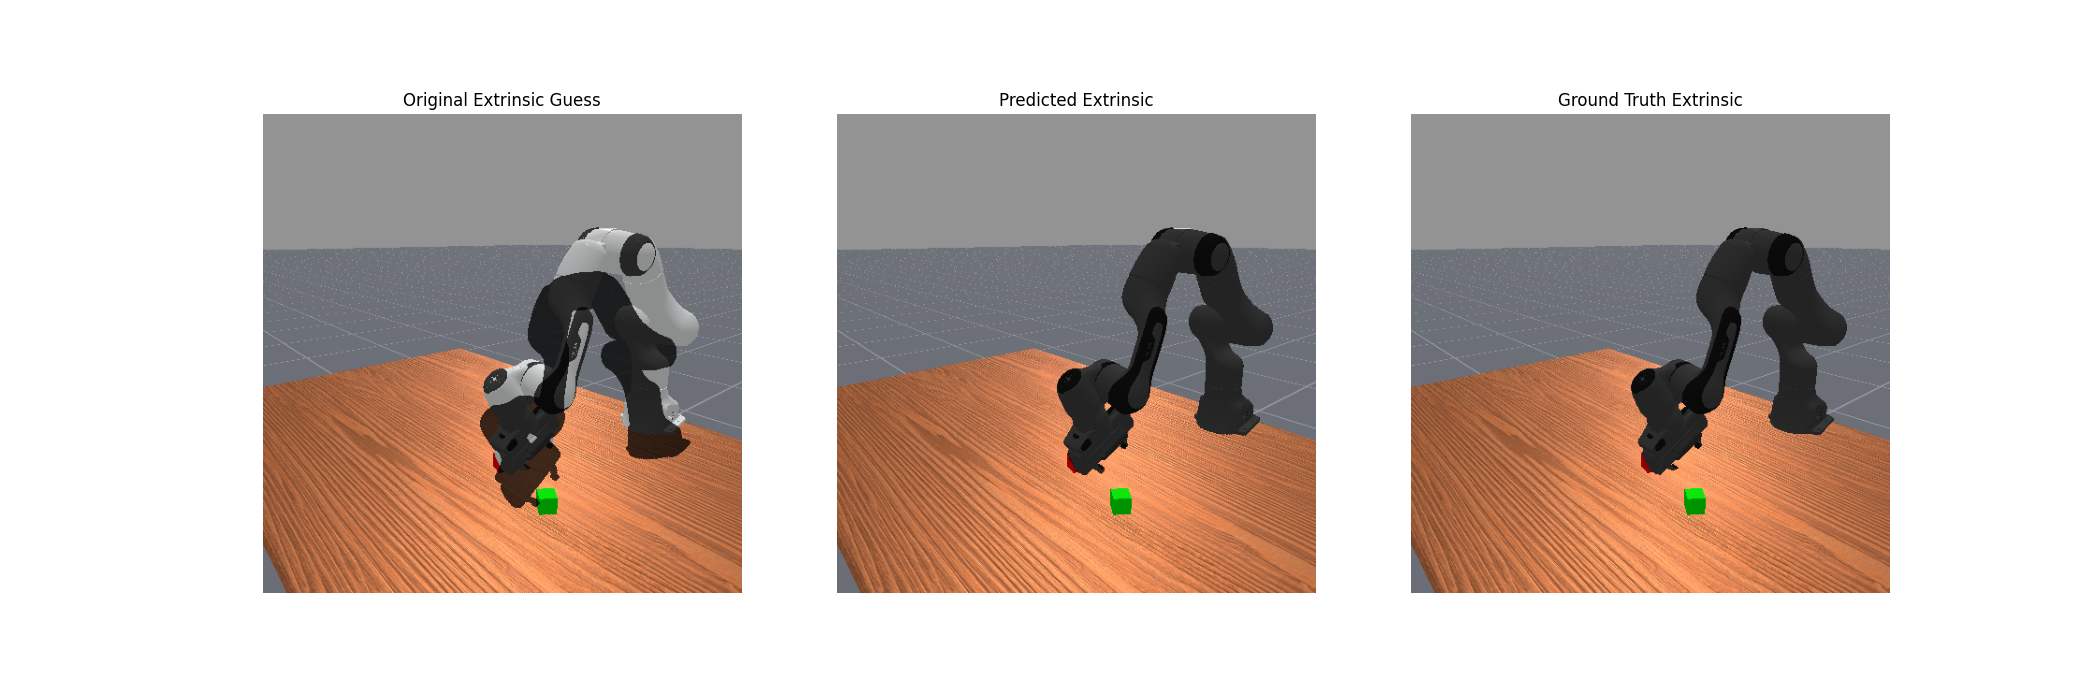
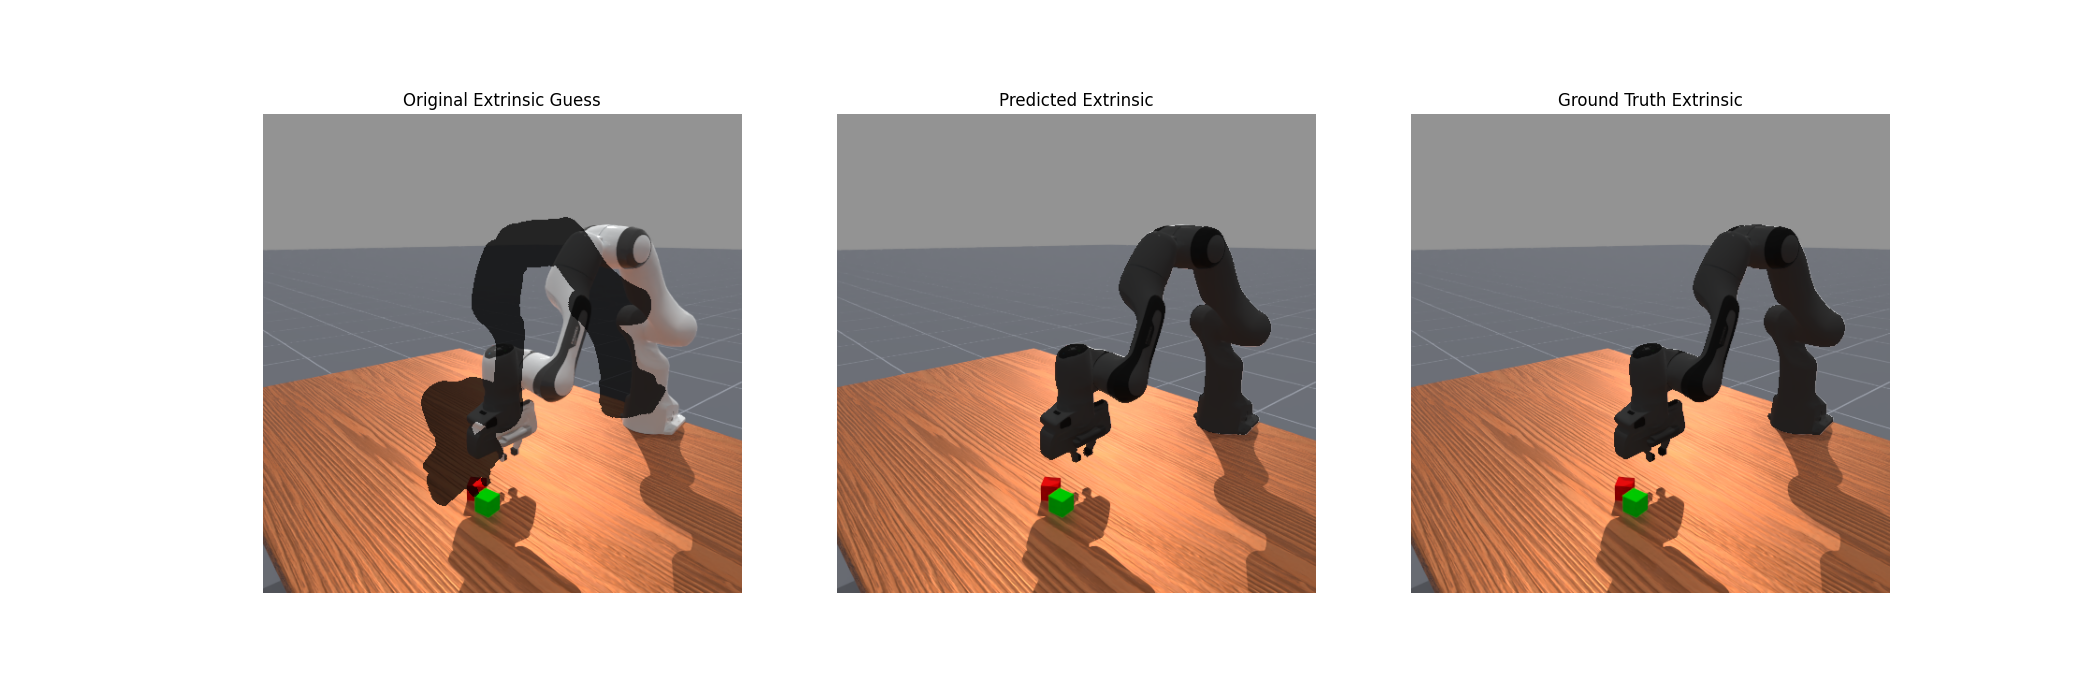
work

Changed region(s): [[0.1238, 0.3, 0.3714, 0.87], [0.4024, 0.3, 0.65, 0.87], [0.681, 0.3, 0.8976, 0.87]]

diff --git a/easyhec/examples/sim/maniskill.py b/easyhec/examples/sim/maniskill.py
@@ -16,7 +16,6 @@ from tqdm import tqdm
 from easyhec.examples.sim.base import Args
 from easyhec.optim.nvdiffrast_renderer import NVDiffrastRenderer
 from easyhec.optim.optimize import optimize
-from easyhec.segmentation.interactive import InteractiveSegmentation
 
 
 def generate_synthetic_data(env: BaseEnv, samples: int, camera_name: str):
@@ -54,11 +53,17 @@ def generate_synthetic_data(env: BaseEnv, samples: int, camera_name: str):
     segmentation_masks = []
     link_poses_dataset = []
     camera_mount_poses = []
-    init_qpos = env.agent.robot.get_qpos().cpu().numpy()
+    init_qpos = env.agent.robot.get_qpos().cpu().numpy()[0]
     for i in range(samples):
-        noise = np.random.randn(init_qpos.shape[1]) * 0.2
-        noise[-2:] = 0
-        env.agent.robot.set_qpos(init_qpos.copy() + noise)
+        noise = np.random.randn(init_qpos.shape[0]) * 0.2
+        qpos = init_qpos.copy() + noise
+        for active_joint in env.agent.robot.active_joints:
+            qpos[active_joint.active_index] = np.clip(
+                qpos[active_joint.active_index],
+                active_joint.limits[0, 0],
+                active_joint.limits[0, 1],
+            )
+        env.agent.robot.set_qpos(qpos)
         env.scene.update_render()
         render_camera.capture()
         data = render_camera.get_obs(rgb=True, segmentation=True)
@@ -92,7 +97,7 @@ def generate_synthetic_data(env: BaseEnv, samples: int, camera_name: str):
     for i in range(len(segmentation_masks)):
         segmentation_image = images[i].copy()
         segment_ids = []
-        for link in env.agent.robot.links[:-4]:
+        for link in env.agent.robot.links:
             segment_ids.append(link.per_scene_id[0])
         robot_mask = np.isin(segmentation_masks[i], segment_ids)
         segmentation_image[robot_mask] //= 4
@@ -165,18 +170,6 @@ def main(args: ManiSkillArgs):
     synthetic_data = generate_synthetic_data(
         base_env, args.samples + args.test_samples, args.camera_name
     )
-
-    if not args.use_ground_truth_segmentation:
-        interactive_segmentation = InteractiveSegmentation(
-            "sam2",
-            segmentation_model_cfg=dict(
-                checkpoint=args.checkpoint, model_cfg=args.model_cfg
-            ),
-        )
-        predicted_segmentation_masks = interactive_segmentation.get_segmentation(
-            synthetic_data["images"][: args.samples]
-        )
-        synthetic_data["robot_masks"] = predicted_segmentation_masks
 
     # data that you would need to collect in the real world
     link_poses_dataset = synthetic_data["link_poses_dataset"]
@@ -312,7 +305,11 @@ def main(args: ManiSkillArgs):
         plt.subplot(1, 3, 3)
         plt.imshow(segmentation_images[i], cmap="gray")
         plt.axis("off")
-        plt.title("Ground Truth Extrinsic")
+        plt.title(
+            "Ground Truth Extrinsic"
+            if args.use_ground_truth_segmentation
+            else "SAM2 Predicted Segmentation"
+        )
 
         Path("results").mkdir(exist_ok=True)
         plt.savefig(f"results/maniskill_{args.env_id}_{args.camera_name}_{i}.png")

diff --git a/easyhec/examples/sim/base.py b/easyhec/examples/sim/base.py
@@ -26,7 +26,7 @@ class Args:
     seed: int = 0
 
     ### sam2 segmentation related configs ###
-    use_ground_truth_segmentation: bool = False
+    use_ground_truth_segmentation: bool = True
     """if true will optimize against the ground truth segmentation masks. If false will open a GUI with an interactive segmentation tool that a user can click points on that are then sent to the SAM2 segmentation model to predict segmentation masks"""
     model_cfg: str = "sam2/configs/sam2.1/sam2.1_hiera_l.yaml"
     """the model config for sam2"""

diff --git a/README.md b/README.md
@@ -2,7 +2,9 @@
 
 This repo provides (mostly) pip installable code to easily calibrate a camera and get its extrinsics with respect to some object (like a robot). It is a cleaned up and simplified version of the original [EasyHeC project](https://github.com/ootts/EasyHeC). It works by taking a dataset of segmentation masks of the object and the object poses, and based on the camera intrinsics and an initial guess of the extrinsics, optimizes that guess into an accurate estimate of the true extrinsics. The optimization process leverages [Nvdiffrast](https://github.com/NVlabs/nvdiffrast) for differentiable rendering to run this optimization process.
 
-<!-- TODO (stao): add some images -->
+Image below shows three different segmentation overlays on top of an RGB image in simulation generated by rendering segmentation from various camera poses. It compares the initial bad extrinsic guess, the optimized estimate, and the ground truth.
+
+![](./assets/sim_example.png)
 
 ## Installation
 
@@ -23,20 +25,18 @@ pip install "nvdiffrast @ git+https://github.com/NVlabs/nvdiffrast.git@729261dc6
 
 The code relies on Nvdiffrast which can sometimes be tricky to setup as it can have some dependencies that need to be installed outside of pip. If you have issues installing Nvdiffrast (which provides dockerized options) see their [documentation](https://nvlabs.github.io/nvdiffrast/) or use our google colab script.
 
-For those who don't want to manually segment their robot images you can use [SAM2](https://github.com/facebookresearch/sam2). Instructions for using that with the differentiable rendering optimizer for camera calibration are detailed in the [real usage section](#real)
+For those who don't want to manually segment their robot images you can use [SAM2](https://github.com/facebookresearch/sam2). Follow the installation instructions in that repo to set it up locally.
 
 ## Usage
 
-We provide two examples, one in simulation and one for a real robot arm
-
 ### Simulation
 
-To test in simulation we provide an example through maniskill. The example generates 10 synthetic images of the Franka/Panda robot with segmentation masks of the robot in random joint positions sampled around the initial joint position, and an initial extrinsic camera guess noisly sampled around the ground truth.
+To test in simulation we provide an example through maniskill. The example generates 10 training synthetic images of the Franka/Panda robot with segmentation masks of the robot in random joint positions sampled around the initial joint position, and an initial extrinsic camera guess noisly sampled around the ground truth. By default 10 test images of the robot in different configurations are tested on and saved locally to the `results/` folder. This simulation also has raytracing for nicer renders which is disabled by default, turn it on by adding --shader rt
 
 ```bash
 pip install easyhec[sim-maniskill]
 # Franka arm, camera used here is a offhand 512x512 camera
-python -m easyhec.examples.sim.maniskill -e StackCube-v1 --samples 10
+python -m easyhec.examples.sim.maniskill -e StackCube-v1 --samples 5
 ```
 
 You can also try out other robots and cameras that ManiSkill provides in other environments like the base camera for SO100
@@ -44,7 +44,7 @@ You can also try out other robots and cameras that ManiSkill provides in other e
 
 ```bash
 # SO100 arm, base_camera here is a 128x128 camera 
-python -m easyhec.examples.sim.maniskill -e SO100GraspCube-v1 --samples 10 \
+python -m easyhec.examples.sim.maniskill -e SO100GraspCube-v1 --samples 5 \
     --camera-name base_camera \
     --initial-extrinsic-guess-rot-error 15 --early-stopping-threshold 25 --initial-extrinsic-guess-pos-error 0.1
 ```
@@ -52,14 +52,21 @@ python -m easyhec.examples.sim.maniskill -e SO100GraspCube-v1 --samples 10 \
 Wrist cameras are also possible but are harder to get working. The amount of initial extrinsic error must also be lowered since the robot already takes up a large part of the image. If the robot is far away more error is possible to solve from.
 
 ```bash
-python -m easyhec.examples.sim.maniskill -e StackCube-v1 --samples 10 \
+python -m easyhec.examples.sim.maniskill -e StackCube-v1 --samples 5 \
     --camera-name hand_camera \
     --initial-extrinsic-guess-rot-error 5 --early-stopping-threshold 25 --initial-extrinsic-guess-pos-error 0.01
 ```
 
+Instead of using the ground truth segmentation masks of the robot you can also use SAM2 generated masks based on your own point based annotations to reflect what you might do with real world images without access to ground truth data. The script below turns that option on and opens a GUI on your display to let you annotate each generated sample.
+
+```bash
+python -m easyhec.examples.sim.maniskill -e StackCube-v1 --samples 5 \
+  --model-cfg ../sam2/configs/sam2.1/sam2.1_hiera_l.yaml --checkpoint ../sam2/checkpoints/sam2.1_hiera_large.pt
+```
+
 ### Real
 
-
+lerobot example is WIP.
 
 ## Tuning Tips
 
